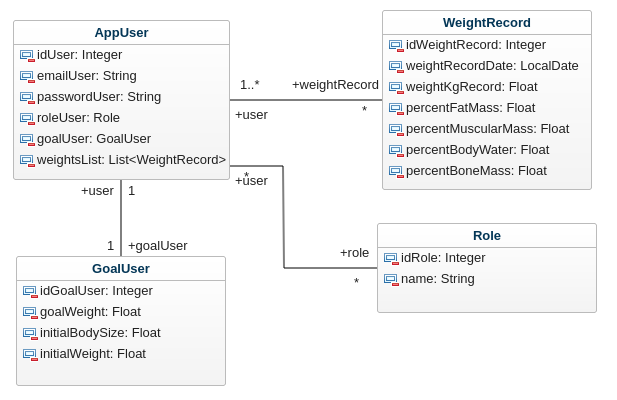
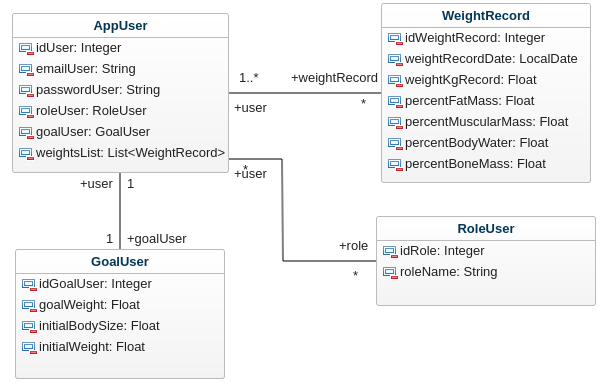
Creating entities class

Changed region(s): [[0.0, 0.0287, 0.9688, 1.0], [0.375, 0.0, 0.9688, 0.4883]]

diff --git a/src/main/java/com/quentingenet/openweighttracker/data/entity/WeightRecord.java b/src/main/java/com/quentingenet/openweighttracker/data/entity/WeightRecord.java
@@ -1,0 +1,82 @@
+package com.quentingenet.openweighttracker.data.entity;
+
+import javax.persistence.*;
+import java.time.LocalDate;
+
+@Entity
+public class WeightRecord {
+    @Id
+    @GeneratedValue(strategy = GenerationType.IDENTITY)
+    @Column(name = "id_weight_record", nullable = false)
+    private Integer idWeightRecord;
+
+    private LocalDate weightRecordDate;
+
+    private Float WeightKgRecord;
+
+    private Float percentFatMass;
+
+    private Float percentMuscularMass;
+
+    private Float percentBodyWater;
+
+    private Float percentBoneMass;
+
+
+    //Getters and setters
+    public Integer getIdWeightRecord() {
+        return idWeightRecord;
+    }
+
+    public void setIdWeightRecord(Integer idWeightRecord) {
+        this.idWeightRecord = idWeightRecord;
+    }
+
+    public LocalDate getWeightRecordDate() {
+        return weightRecordDate;
+    }
+
+    public void setWeightRecordDate(LocalDate weightRecordDate) {
+        this.weightRecordDate = weightRecordDate;
+    }
+
+    public Float getWeightKgRecord() {
+        return WeightKgRecord;
+    }
+
+    public void setWeightKgRecord(Float weightKgRecord) {
+        WeightKgRecord = weightKgRecord;
+    }
+
+    public Float getPercentFatMass() {
+        return percentFatMass;
+    }
+
+    public void setPercentFatMass(Float percentFatMass) {
+        this.percentFatMass = percentFatMass;
+    }
+
+    public Float getPercentMuscularMass() {
+        return percentMuscularMass;
+    }
+
+    public void setPercentMuscularMass(Float percentMuscularMass) {
+        this.percentMuscularMass = percentMuscularMass;
+    }
+
+    public Float getPercentBodyWater() {
+        return percentBodyWater;
+    }
+
+    public void setPercentBodyWater(Float percentBodyWater) {
+        this.percentBodyWater = percentBodyWater;
+    }
+
+    public Float getPercentBoneMass() {
+        return percentBoneMass;
+    }
+
+    public void setPercentBoneMass(Float percentBoneMass) {
+        this.percentBoneMass = percentBoneMass;
+    }
+}

diff --git a/src/main/java/com/quentingenet/openweighttracker/data/entity/AppUser.java b/src/main/java/com/quentingenet/openweighttracker/data/entity/AppUser.java
@@ -1,2 +1,84 @@
-package com.quentingenet.openweighttracker.data.entity;public class AppUser {
+package com.quentingenet.openweighttracker.data.entity;
+
+import javax.persistence.*;
+import javax.validation.constraints.NotBlank;
+import javax.validation.constraints.Size;
+import java.util.List;
+
+@Entity
+public class AppUser {
+
+    @Id
+    @GeneratedValue(strategy = GenerationType.IDENTITY)
+    @Column(name = "id_user", nullable = false)
+    private Integer idUser;
+
+    @NotBlank
+    @Column(name = "email_user")
+    private String emailUser;
+
+    @NotBlank
+    @Size(min = 4, max = 50, message = "Password must have at least 4 characters and maximum 50.")
+    @Column(name = "password_user")
+    private String passwordUser;
+
+    @ManyToOne
+    private RoleUser roleUser;
+
+    @OneToOne
+    private GoalUser goalUser;
+
+
+    private List<WeightRecord> weightsList;
+
+
+    //Getters and setters
+    public Integer getIdUser() {
+        return idUser;
+    }
+
+    public void setIdUser(Integer idAppUser) {
+        this.idUser = idAppUser;
+    }
+
+    public String getEmailUser() {
+        return emailUser;
+    }
+
+    public void setEmailUser(String emailUser) {
+        this.emailUser = emailUser;
+    }
+
+    public String getPasswordUser() {
+        return passwordUser;
+    }
+
+    public void setPasswordUser(String passwordUser) {
+        this.passwordUser = passwordUser;
+    }
+
+    public RoleUser getRoleUser() {
+        return roleUser;
+    }
+
+    public void setRoleUser(RoleUser roleUser) {
+        this.roleUser = roleUser;
+    }
+
+    public GoalUser getGoalUser() {
+        return goalUser;
+    }
+
+    public void setGoalUser(GoalUser goalUser) {
+        this.goalUser = goalUser;
+    }
+
+    public List<WeightRecord> getWeightsList() {
+        return weightsList;
+    }
+
+    public void setWeightsList(List<WeightRecord> weightsList) {
+        this.weightsList = weightsList;
+    }
 }
+

diff --git a/src/main/java/com/quentingenet/openweighttracker/data/entity/GoalUser.java b/src/main/java/com/quentingenet/openweighttracker/data/entity/GoalUser.java
@@ -1,0 +1,51 @@
+package com.quentingenet.openweighttracker.data.entity;
+
+import javax.persistence.*;
+
+@Entity
+public class GoalUser {
+
+    @Id
+    @GeneratedValue(strategy = GenerationType.IDENTITY)
+    @Column(name = "id_goal_user", nullable = false)
+    private Integer idGoalUser;
+
+    private Float goalWeight;
+
+    private Float initialBodySize;
+
+    private Float initialWeight;
+
+    //Getters and setters
+    public Integer getIdGoalUser() {
+        return idGoalUser;
+    }
+
+    public void setIdGoalUser(Integer idGoalUser) {
+        this.idGoalUser = idGoalUser;
+    }
+
+    public Float getGoalWeight() {
+        return goalWeight;
+    }
+
+    public void setGoalWeight(Float goalWeight) {
+        this.goalWeight = goalWeight;
+    }
+
+    public Float getInitialBodySize() {
+        return initialBodySize;
+    }
+
+    public void setInitialBodySize(Float initialBodySize) {
+        this.initialBodySize = initialBodySize;
+    }
+
+    public Float getInitialWeight() {
+        return initialWeight;
+    }
+
+    public void setInitialWeight(Float initialWeight) {
+        this.initialWeight = initialWeight;
+    }
+}

diff --git a/src/main/java/com/quentingenet/openweighttracker/common/ExceptionResolver.java b/src/main/java/com/quentingenet/openweighttracker/common/ExceptionResolver.java
@@ -1,0 +1,29 @@
+package com.quentingenet.openweighttracker.common;
+
+import org.springframework.http.HttpStatus;
+import org.springframework.http.ResponseEntity;
+import org.springframework.validation.FieldError;
+import org.springframework.web.bind.MethodArgumentNotValidException;
+import org.springframework.web.bind.annotation.ControllerAdvice;
+import org.springframework.web.bind.annotation.ExceptionHandler;
+
+import java.util.HashMap;
+import java.util.Map;
+
+@ControllerAdvice
+public class ExceptionResolver {
+
+    @ExceptionHandler
+    public ResponseEntity<?> handleValidationExceptions(
+            MethodArgumentNotValidException ex) {
+        Map<String, String> errors = new HashMap<>();
+        ex.getBindingResult().getAllErrors().forEach((error) -> {
+            String fieldName = ((FieldError) error).getField();
+            String errorMessage = error.getDefaultMessage();
+            errors.put(fieldName, errorMessage);
+        });
+        return new ResponseEntity<>(errors, HttpStatus.BAD_REQUEST);
+    }
+}
+
+

diff --git a/src/main/java/com/quentingenet/openweighttracker/data/entity/RoleUser.java b/src/main/java/com/quentingenet/openweighttracker/data/entity/RoleUser.java
@@ -1,0 +1,31 @@
+package com.quentingenet.openweighttracker.data.entity;
+
+import javax.persistence.*;
+
+@Entity
+public class RoleUser {
+
+    @Id
+    @GeneratedValue(strategy = GenerationType.IDENTITY)
+    @Column(name = "id_role", nullable = false)
+    private Integer idRole;
+
+    private String roleName;
+
+    //Getters and setters
+    public Integer getIdRole() {
+        return idRole;
+    }
+
+    public void setIdRole(Integer idRole) {
+        this.idRole = idRole;
+    }
+
+    public String getRoleName() {
+        return roleName;
+    }
+
+    public void setRoleName(String roleName) {
+        this.roleName = roleName;
+    }
+}
